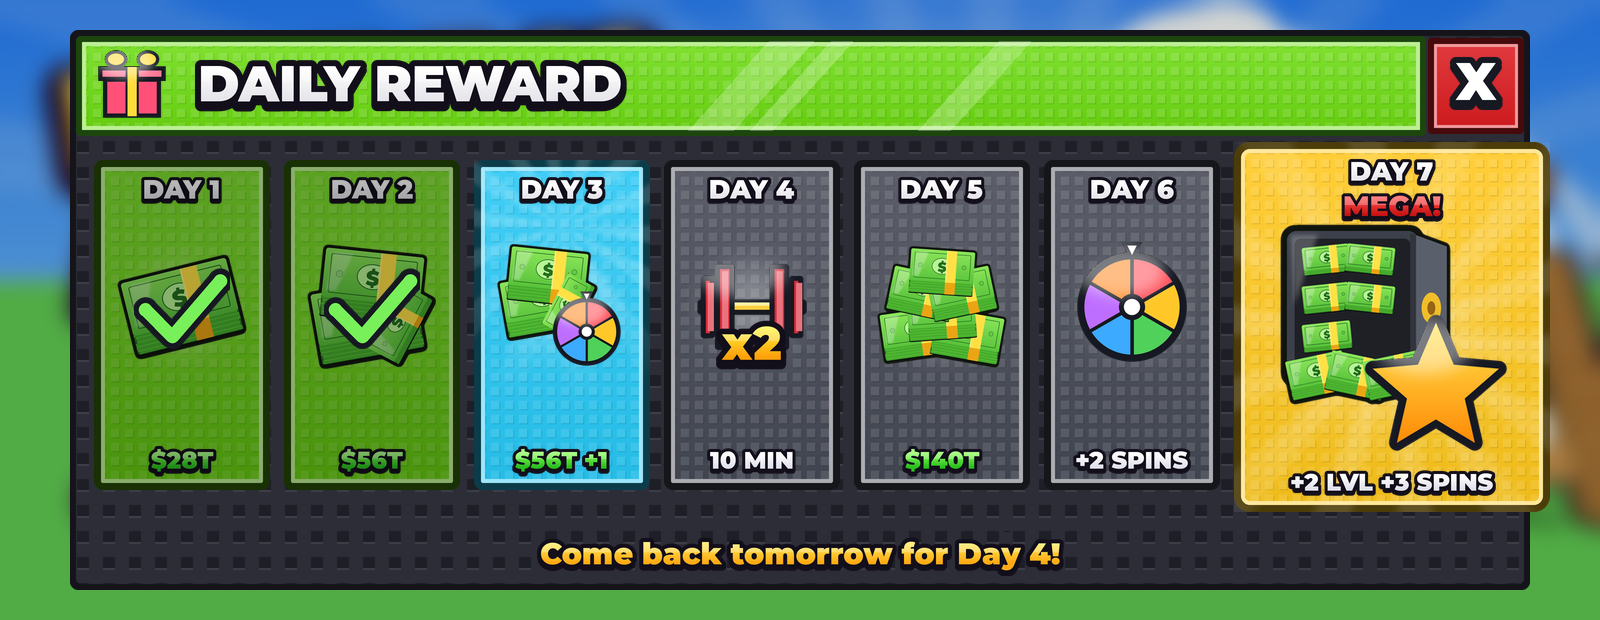
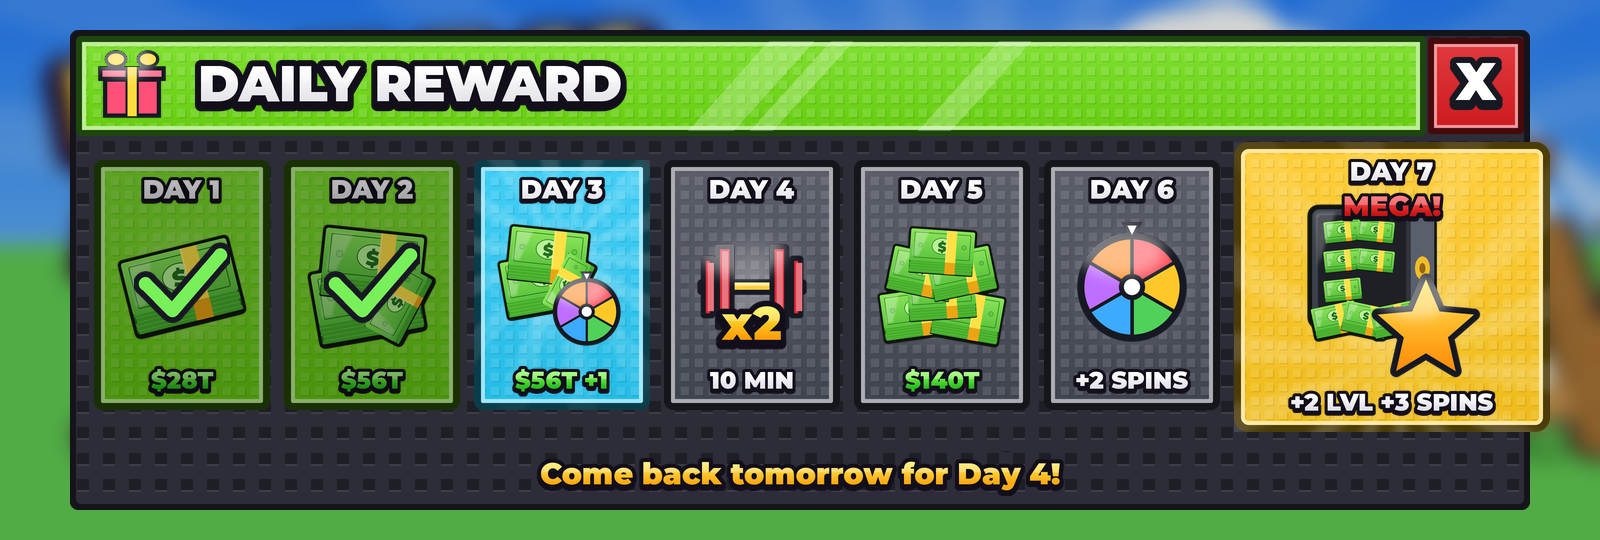
Break A Bed: shorter daily cards, aligned spin wheel image
Claude-Session: https://claude.ai/code/session_016uvrS3Ui1ijFbyufuEdzSK

diff --git a/Break A Bed/UI Kit/source/daily.py b/Break A Bed/UI Kit/source/daily.py
@@ -28,20 +28,20 @@ def dcard(w, h, day, art, amount, state, gold=False):
     if state == 'today' or gold:
         c.alpha_composite(A.tint(kit.rays(w * 2, 14, 70).crop((w // 2, h // 3, w // 2 + w, h // 3 + h)), (255, 255, 255), .6))
     A.stroke_text(c, (w / 2, 30), f'DAY {day}', 26, (255, 255, 255), (230, 230, 235), anchor='mm')
-    s = int(w * .74)
-    c.alpha_composite(A.tint(kit.soft_glow(s, 160), (255, 255, 255), .5), ((w - s) // 2, 82))
-    c.alpha_composite(art.resize((s, s), Image.LANCZOS), ((w - s) // 2, 82))
+    s = int(min(w * .74, h - 112))
+    c.alpha_composite(A.tint(kit.soft_glow(s, 160), (255, 255, 255), .5), ((w - s) // 2, 62))
+    c.alpha_composite(art.resize((s, s), Image.LANCZOS), ((w - s) // 2, 62))
     A.stroke_text(c, (w / 2, h - 30), amount, 24, (140, 255, 90) if '$' in amount else (255, 255, 255), (40, 190, 30) if '$' in amount else (225, 225, 235), anchor='mm')
     if state == 'claimed':
         dim = Image.new('RGBA', (w, h), (0, 0, 0, 0)); dim.putalpha(c.getchannel('A').point(lambda v: v * 70 // 255)); c.alpha_composite(dim)
-        ck = check(int(w * .55)); c.alpha_composite(ck, ((w - ck.width) // 2, 100))
+        ck = check(int(w * .55)); c.alpha_composite(ck, ((w - ck.width) // 2, 74))
     return c
 
 def main(bgpath, out):
-    Wd, Hd = 1600, 620
+    Wd, Hd = 1600, 540
     bg = Image.open(bgpath).convert('RGBA').resize((Wd, Hd)).filter(ImageFilter.GaussianBlur(10))
     img = Image.blend(bg, Image.new('RGBA', (Wd, Hd), (30, 40, 30, 255)), 0.2)
-    x0, y0, ww, wh = 70, 30, 1460, 560
+    x0, y0, ww, wh = 70, 30, 1460, 480
     img.alpha_composite(shop3.window(ww, wh), (x0, y0))
     hd = sim.header(ww - 110, 100, 'green', ''); hd.alpha_composite(gloss(icon('gift', 80)), (16, 8))
     A.stroke_text(hd, (110, 48), 'DAILY REWARD', 50, (255, 255, 255), (230, 230, 235))
@@ -51,7 +51,7 @@ def main(bgpath, out):
     days = [(1, combo([cash], 200), '$28T', 'claimed'), (2, combo([pile], 200), '$56T', 'claimed'),
             (3, combo([pile, spin], 200), '$56T +1', 'today'), (4, boost_icon(256), '10 MIN', 'locked'),
             (5, combo([money.cash3(256)], 200), '$140T', 'locked'), (6, combo([spin], 200), '+2 SPINS', 'locked')]
-    cw, ch = 176, 330
+    cw, ch = 176, 250
     for i, (d, art, amt, st) in enumerate(days):
         img.alpha_composite(dcard(cw, ch, d, art, amt, st), (x0 + 24 + i * (cw + 14), y0 + 130))
     # day 7: big gold OP card

diff --git a/Break A Bed/UI Kit/source/wheel.py b/Break A Bed/UI Kit/source/wheel.py
@@ -1,0 +1,27 @@
+import math
+from PIL import Image, ImageDraw
+import aura2 as A
+N = 1024; S = 2; W = N * S
+cols = [(40,120,235),(235,40,200),(255,215,20),(80,200,50),(150,70,235),(255,145,20),(30,200,240),(230,50,60)]
+labels = ['CASH','x2 STR','+1 SPIN','BIG CASH','x2 CASH','+1 LEVEL','MEGA CASH','JACKPOT']
+def wheel(with_text=False):
+    im = Image.new('RGBA', (W, W), (0,0,0,0)); d = ImageDraw.Draw(im); c = W/2
+    d.ellipse((0,0,W-1,W-1), fill=(20,16,24)); d.ellipse((W*.025,)*2+(W*.975,)*2, fill=(255,210,20))
+    r0 = (W*.06, W*.06, W*.94, W*.94)
+    n = len(cols); step = 360/n
+    for i, col in enumerate(cols):            # slice i centred on the top pointer when wheel rotation = -i*45
+        a0 = -90 - step/2 + i*step
+        d.pieslice(r0, a0, a0 + step, fill=col)
+    for i in range(n):                          # divider lines exactly on the slice edges
+        a = math.radians(-90 - step/2 + i*step)
+        d.line((c, c, c + W*.44*math.cos(a), c + W*.44*math.sin(a)), fill=(20,16,24), width=int(W*.012))
+    d.ellipse((c-W*.12,)*2+(c+W*.12,)*2, fill=(20,16,24)); d.ellipse((c-W*.105,)*2+(c+W*.105,)*2, fill=(255,210,20))
+    im = im.resize((N, N), Image.LANCZOS)
+    if with_text:
+        for i, t in enumerate(labels):
+            lay = Image.new('RGBA', (N, N), (0,0,0,0))
+            fs = 46 if len(t) <= 7 else 38
+            A.stroke_text(lay, (N/2 + N*.285, N/2), t, fs, (255,255,255), (235,235,240), anchor='mm')
+            im.alpha_composite(lay.rotate(90 - i*step, resample=Image.BICUBIC))
+    return im
+wheel().save('wheel-base.png'); wheel(True).save('wheel-preview.png')

diff --git a/Break A Bed/UI Kit/UI Kit.md b/Break A Bed/UI Kit/UI Kit.md
@@ -63,13 +63,20 @@ The owner sent screenshots of a popular simulator (Shop/Index buttons, a dark st
 
 ### Daily Reward window (2026-10-12: icons, not text)
 ![[preview-daily.png]]
-- Each day card shows a **big picture of the reward** with a soft glow, placed in the middle of the card (30 px lower than the first build, so it doesn't crowd the DAY title), and only a **short amount** at the bottom ("$28T", "+2 SPINS", "10 MIN"). No sentences.
+- Each day card shows a **big picture of the reward** with a soft glow, placed in the middle of the card. **Cards are short** (about 176 × 250 on PC; Day 7 about 316 × 290), with the picture between the DAY title and the amount, and only a **short amount** at the bottom ("$28T", "+2 SPINS", "10 MIN"). No sentences.
   - Cash: `money-small.png` / `money-medium.png` / `money-big.png` (bigger amounts get bigger piles).
   - Spins: `icon-wheel.png`. Strength boost: `icon-boost-x2.png` (a dumbbell with "x2"). Levels: `icon-star.png`.
   - Two rewards: the main icon big, the second smaller in the bottom-right corner.
 - **States:** claimed = green, dimmed, with a big green check; today = cyan with soft rays (the one to claim); later days = grey.
 - **Day 7 is a bigger gold card** with a red "MEGA!" tag and `money-safe.png` + a star, so players see the big reward coming.
 - A yellow line at the bottom: "Come back tomorrow for Day X!"
+
+### Spin wheel (fix 2026-10-12: slices and lines were not lined up)
+![[preview-wheel.png]]
+- Use **one image for the slices, lines, rim and hub together**: `wheel-base.png` (8 slices, 45° each). Because they're one picture, the lines can never drift off the colors.
+- Slice order clockwise from the top: CASH (blue), x2 STR (pink), +1 SPIN (yellow), BIG CASH (green), x2 CASH (purple), +1 LEVEL (orange), MEGA CASH (cyan), JACKPOT (red). Slice 1 is **centered** under the pointer at rotation 0.
+- **Labels:** put each label in a Frame that rotates with the wheel, at angle `i * 45°` from the top, about 28% of the wheel size out from the center, reading outward along the middle of its slice (like `preview-wheel.png`).
+- **Landing:** to stop on prize `i` (0–7), the final rotation is `-(i * 45) + 360 * spins + random(-15, 15)` degrees. The random part stays inside the slice, so the pointer always lands on the slice the server picked.
 
 ### Sound variety (owner 2026-10-12)
 - **Keep the bubbly "pop" on button presses**: the owner finds it satisfying. Give it a small random pitch (0.92–1.1) so it never sounds exactly the same.
